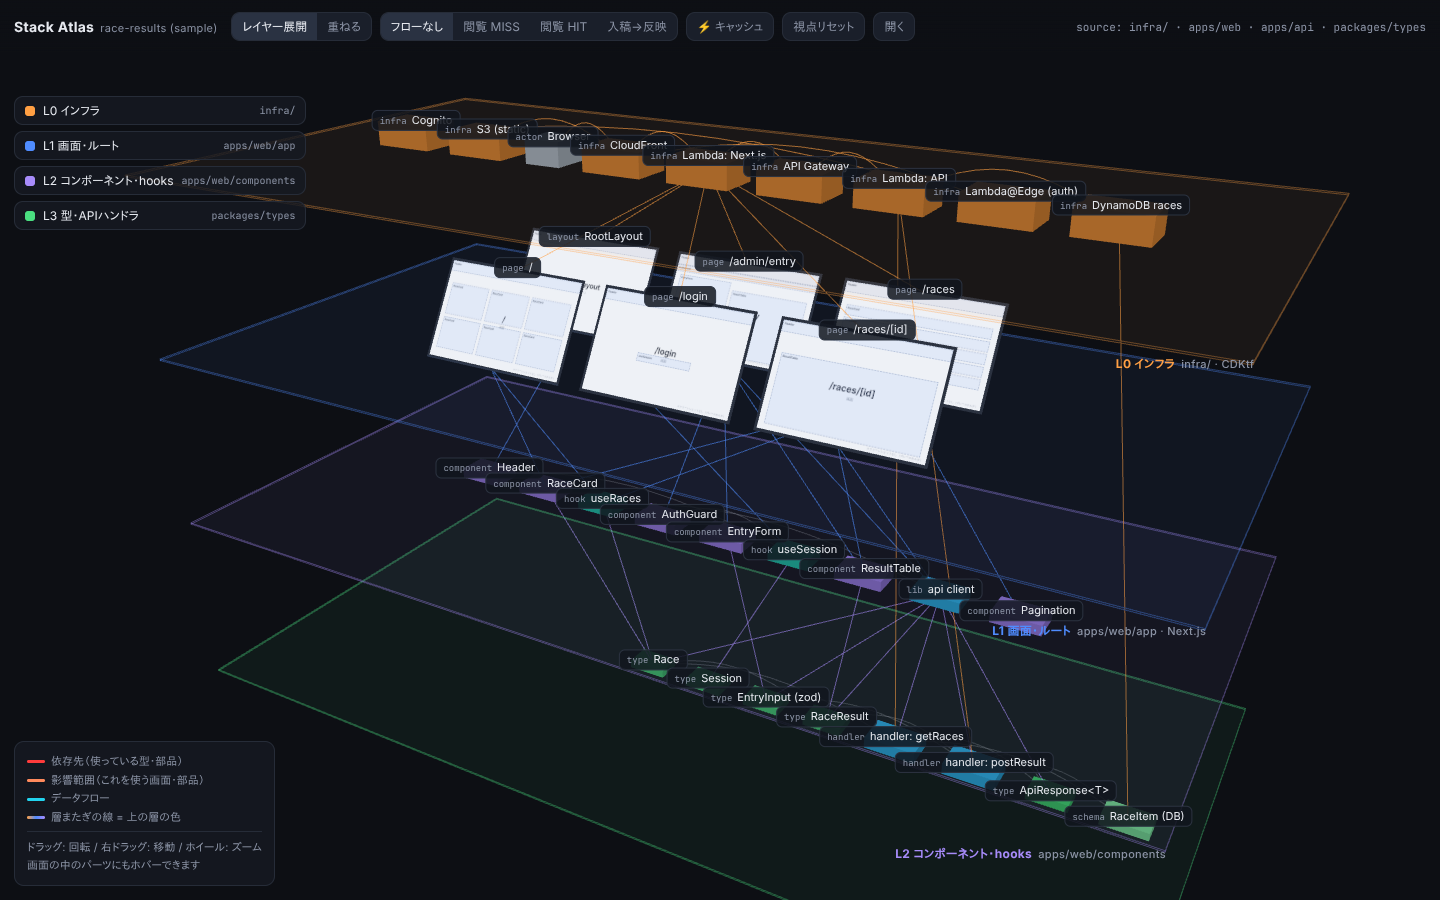
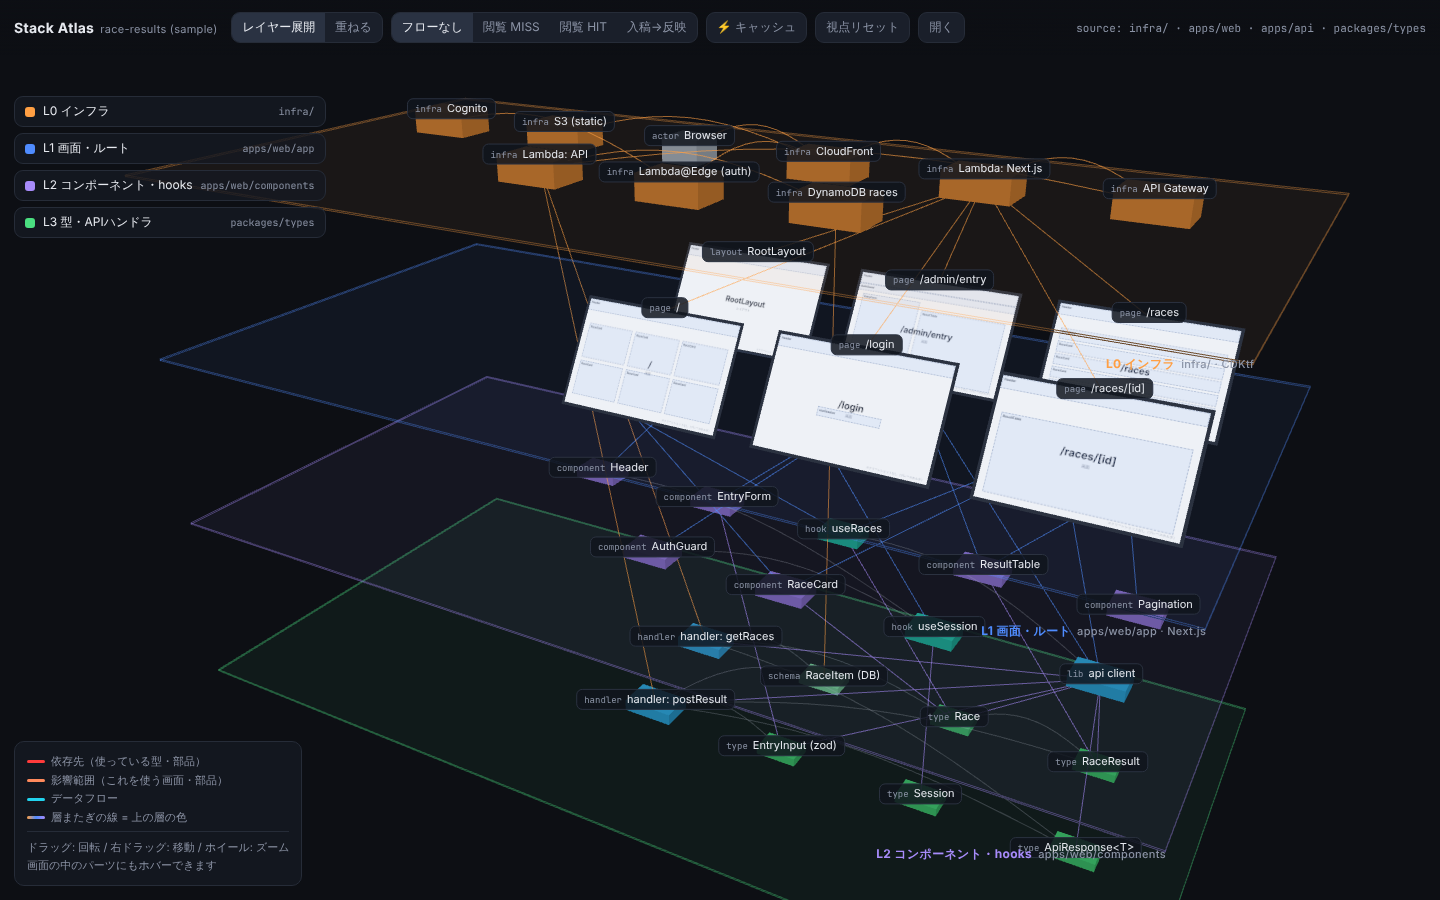
feat(viewer): 自動レイアウトの間隔をラベル込みにし、段をずらして配置
- x 方向の footprint をラベル幅（4.5）以上にし、gap を 1.6 に
- 層に 6 個以上あれば 2〜3 段に分け、段を半ピッチずらす（ラベルの重なり解消）
- 画面ノードは 3 枚 × 2 段（手置きのレイアウトに近い形）
- テスト 22 件

Claude-Session: https://claude.ai/code/session_01X43V24hTaDedKKQJKGN298

diff --git a/packages/viewer/src/layout/auto.ts b/packages/viewer/src/layout/auto.ts
@@ -32,7 +32,7 @@ export interface LayoutOptions {
   minPlateWidth?: number;
   /** 板の最小奥行き（z）。既定 20 */
   minPlateDepth?: number;
-  /** ノード間の最小間隔。既定 1.2 */
+  /** ノード間の最小間隔。既定 1.6 */
   gap?: number;
 }
 
@@ -43,6 +43,10 @@ export interface LayoutResult {
 }
 
 const SCREEN_MIN_W = 6;
+/** ラベル（HTML）の想定幅。x 方向の占有幅は max(footprint.w, LABEL_W) とする */
+export const LABEL_W = 4.5;
+/** 同じ層で段を分ける際の z 方向の理想的な段間隔 */
+const ROW_GAP = 4;
 const MAX_RELAX_ITERATIONS = 50;
 const EPS = 1e-9;
 
@@ -91,7 +95,7 @@ export function autoLayout(
 ): LayoutResult {
   const minW = opts.minPlateWidth ?? 41;
   const minD = opts.minPlateDepth ?? 20;
-  const gap = opts.gap ?? 1.2;
+  const gap = opts.gap ?? 1.6;
 
   // 正規化: id 昇順、重複 id は最初のものだけ残す
   const seen = new Set<string>();
@@ -127,9 +131,9 @@ export function autoLayout(
     }
   });
 
-  const W = (i: number) => ns[i]!.footprint.w;
+  const W = (i: number) => Math.max(ns[i]!.footprint.w, LABEL_W);
   const D = (i: number) => ns[i]!.footprint.d;
-  const isScreen = (i: number) => W(i) >= SCREEN_MIN_W;
+  const isScreen = (i: number) => ns[i]!.footprint.w >= SCREEN_MIN_W;
 
   const byLayer = new Map<number, number[]>();
   for (let i = 0; i < N; i++) {
@@ -148,7 +152,13 @@ export function autoLayout(
   /** 段（row）を z 方向に積み、z = 0 を中心にして Z に書き込む */
   const assignRowZ = (rows: Row[]): void => {
     const depths = rows.map((r) => Math.max(0, ...r.members.map(D)));
-    const total = depths.reduce((s, d) => s + d, 0) + gap * Math.max(0, rows.length - 1);
+    const sumD = depths.reduce((s, d) => s + d, 0);
+    // 段が複数あるときは板の奥行きを使って段間を広げる（ラベルが同じ基線に並ばないように）
+    const rowGap =
+      rows.length > 1
+        ? Math.max(gap, Math.min(ROW_GAP, (minD - 2 * gap - sumD) / (rows.length - 1)))
+        : gap;
+    const total = sumD + rowGap * Math.max(0, rows.length - 1);
     let z = -total / 2;
     rows.forEach((r, k) => {
       const zc = z + depths[k]! / 2;
@@ -157,7 +167,7 @@ export function autoLayout(
         Z[m] = zc;
         placed[m] = true;
       });
-      z += depths[k]! + gap;
+      z += depths[k]! + rowGap;
     });
   };
 
@@ -293,18 +303,25 @@ export function autoLayout(
           a - b,
       );
       // 段数 k: 各段の幅の合計が cap に収まる最小値（i mod k の振り分けで x の分布を保つ）
-      let k = Math.max(1, Math.ceil(widthOf(sorted) / cap));
+      // 画面以外は 6 個以上で 2 段、11 個以上で 3 段に千鳥配置する
+      const isScreenGroup = sorted.length > 0 && sorted.every(isScreen);
+      const kMin = isScreenGroup ? 1 : sorted.length > 10 ? 3 : sorted.length > 5 ? 2 : 1;
+      let k = Math.max(kMin, Math.ceil(widthOf(sorted) / cap));
       let buckets: number[][] = [];
       for (; ; k++) {
         buckets = Array.from({ length: k }, () => []);
         sorted.forEach((id, i) => buckets[i % k]!.push(id));
         if (k >= sorted.length || buckets.every((b) => widthOf(b) <= cap + EPS)) break;
       }
-      for (const b of buckets) {
+      const avgW = sorted.reduce((s, i) => s + W(i), 0) / Math.max(1, sorted.length);
+      const half = (avgW + gap) / 2;
+      for (const [bi, b] of buckets.entries()) {
         if (b.length === 0) continue;
+        // 段ごとに半ピッチずつずらして千鳥にする（全段の平均は 0 なので重心は保たれる）
+        const off = (bi - (k - 1) / 2) * half;
         const xs = resolve1D(
           b.map(W),
-          b.map((i) => target.get(i)!),
+          b.map((i) => target.get(i)! + off),
           gap,
         );
         let lo = Infinity;

diff --git a/packages/viewer/src/layout/auto.test.ts b/packages/viewer/src/layout/auto.test.ts
@@ -1,7 +1,7 @@
 import { readFileSync } from 'node:fs';
 import { resolve } from 'node:path';
 import { describe, expect, it } from 'vitest';
-import { autoLayout, type LayoutEdgeInput, type LayoutNodeInput, type LayoutResult } from './auto';
+import { autoLayout, LABEL_W, type LayoutEdgeInput, type LayoutNodeInput, type LayoutResult } from './auto';
 
 const EPS = 1e-6;
 
@@ -143,6 +143,51 @@ describe('autoLayout basics', () => {
     const r = autoLayout([n('a', 0)], [], { minPlateWidth: 80, minPlateDepth: 50 });
     expect(r.plate.width).toBeGreaterThanOrEqual(80);
     expect(r.plate.depth).toBeGreaterThanOrEqual(50);
+  });
+});
+
+describe('label-aware spacing', () => {
+  it('keeps same-row non-screen centers at least LABEL_W + gap apart', () => {
+    const nodes: LayoutNodeInput[] = [];
+    for (let i = 0; i < 12; i++) nodes.push(n(`a${i}`, 0, 1.6, 1.2));
+    for (let i = 0; i < 4; i++) nodes.push(n(`b${i}`, 1, 2, 1.3));
+    const r = autoLayout(nodes, []);
+    for (const layer of [0, 1]) {
+      const ps = nodes.filter((x) => x.layer === layer).map((x) => r.positions.get(x.id)!);
+      for (let i = 0; i < ps.length; i++)
+        for (let j = i + 1; j < ps.length; j++)
+          if (Math.abs(ps[i]!.z - ps[j]!.z) < 1e-6)
+            expect(Math.abs(ps[i]!.x - ps[j]!.x)).toBeGreaterThanOrEqual(LABEL_W + 1.6 - 1e-6);
+    }
+  });
+
+  it('spreads a 9-node layer over rows or a wide plate, centered on z = 0', () => {
+    const nodes = [n('top', 0), ...Array.from({ length: 9 }, (_, i) => n(`i${i}`, 1, 2.6, 1.8))];
+    const edges = nodes.slice(1).map((x) => ({ from: 'top', to: x.id }));
+    const r = autoLayout(nodes, edges);
+    expectSane(nodes, r);
+    const zs = new Set(nodes.slice(1).map((x) => r.positions.get(x.id)!.z));
+    expect(zs.size >= 2 || r.plate.width >= 9 * (LABEL_W + 1.6)).toBe(true);
+    const zl = [...zs];
+    expect(Math.min(...zl) + Math.max(...zl)).toBeCloseTo(0, 6);
+    expect(r.plate.depth).toBeLessThanOrEqual(20 + EPS);
+  });
+
+  it('keeps screens at least 1.0 apart and in two rows of three for six screens', () => {
+    const nodes = [n('top', 0), ...Array.from({ length: 6 }, (_, i) => n(`s${i}`, 1, 6.4, 4.2))];
+    const r = autoLayout(
+      nodes,
+      nodes.slice(1).map((x) => ({ from: 'top', to: x.id })),
+    );
+    expectSane(nodes, r);
+    const byZ = new Map<number, number[]>();
+    for (const x of nodes.slice(1)) {
+      const p = r.positions.get(x.id)!;
+      byZ.set(p.z, [...(byZ.get(p.z) ?? []), p.x].sort((a, b) => a - b));
+    }
+    expect([...byZ.values()].map((v) => v.length)).toEqual([3, 3]);
+    for (const xs of byZ.values())
+      for (let i = 1; i < xs.length; i++) expect(xs[i]! - xs[i - 1]! - 6.4).toBeGreaterThanOrEqual(1);
   });
 });
 
